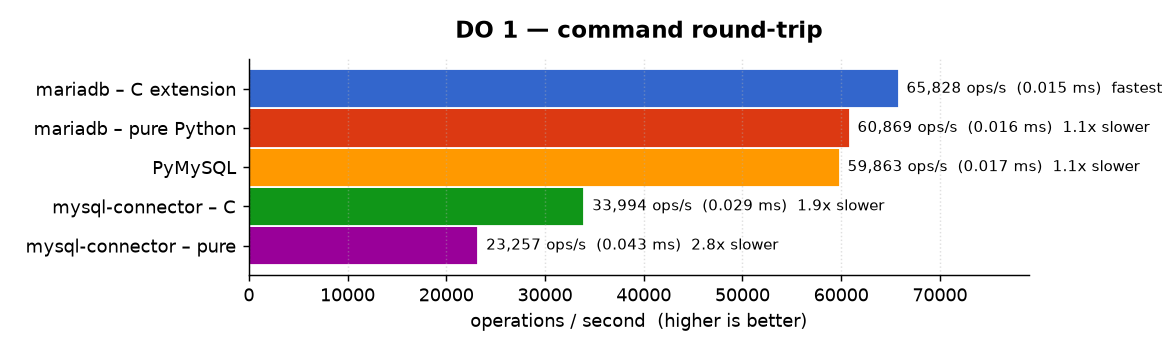
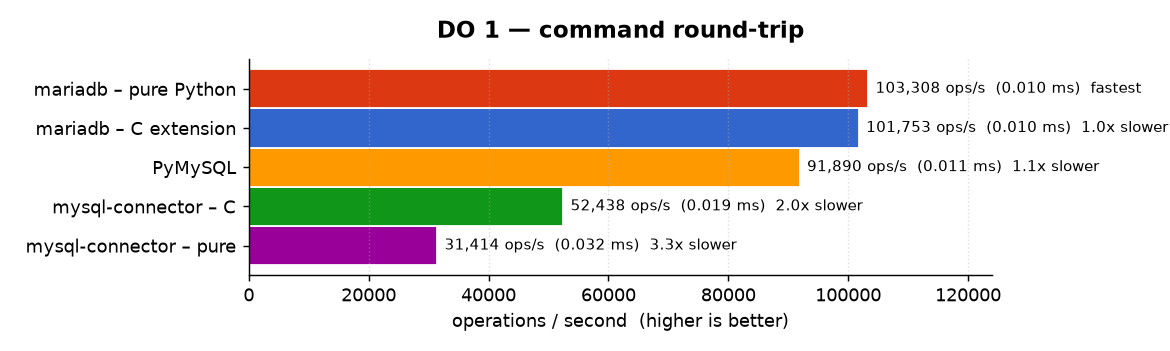
[misc] refresh benchmark results

diff --git a/docs/benchmarks.md b/docs/benchmarks.md
@@ -12,28 +12,32 @@ with the commands under [Reproducing](#reproducing).
 
 ## TL;DR
 
-The `mariadb` **C extension is the fastest driver in every benchmark**, and the
-pure-Python `mariadb` implementation comes second in most of them. Selected
+The `mariadb` **C extension is the fastest driver in almost every benchmark**;
+the only exceptions are the bare `DO` round-trips (no result set to parse),
+where the pure-Python driver matches it. The pure-Python `mariadb`
+implementation is the **fastest pure-Python driver in every benchmark**, and on
+result-set parsing it now **matches or beats MySQL Connector/Python's C
+extension** — e.g. `SELECT 100 columns` (7,435 vs 7,303 ops/s, text). Selected
 results (operations per second, higher is better):
 
 | Workload | mariadb (C) | vs pure-Python `mariadb` | vs MySQL Connector/C |
 |---|---|---|---|
-| `SELECT 1` (simple query) | **50,155 ops/s** | 1.6× faster | 2.1× faster |
-| `SELECT 1000 rows` (binary) | **5,672 ops/s** | 8.0× faster | 4.4× faster |
-| `SELECT 100 columns` (binary) | **19,782 ops/s** | 1.5× faster | 4.8× faster |
-| `DO 1000 params` (binary) | **4,268 ops/s** | 2.2× faster | 58× faster |
-| Batch `INSERT` (100 rows) | **6,110 ops/s** | 1.3× faster | 3.0× faster |
+| `SELECT 1` (simple query) | **85,508 ops/s** | 1.6× faster | 2.4× faster |
+| `SELECT 1000 rows` (binary) | **6,259 ops/s** | 7.7× faster | 4.2× faster |
+| `SELECT 100 columns` (binary) | **13,624 ops/s** | 2.2× faster | 2.5× faster |
+| `DO 1000 params` (binary) | **2,721 ops/s** | 2.0× faster | 36× faster |
+| Batch `INSERT` (100 rows) | **8,454 ops/s** | 1.6× faster | 3.6× faster |
 
 ## Environment
 
 |  |  |
 |---|---|
 | CPU | Intel Core i9-11900K, governor `performance` (~4.8 GHz), client pinned to one core (`taskset -c 4`) |
-| OS / Python | Linux · CPython 3.12.3 |
-| Server | MariaDB 12.3.2 · TCP · TLS off |
-| Tooling | [pytest-benchmark](https://pypi.org/project/pytest-benchmark/) · ≥ 1000 rounds per benchmark · GC disabled |
-| Method | two full passes; the **second** (warmed-up) pass is reported (mean per-call time → ops/s) |
-| Date | 2026-06-18 |
+| OS / Python | Linux · CPython 3.14.4 |
+| Server | MariaDB 12.3.2 · Unix socket · TLS off |
+| Tooling | [pytest-benchmark](https://pypi.org/project/pytest-benchmark/) · ≥ 1000 rounds per benchmark (capped at ~1 s wall-time for the slowest drivers) · GC disabled |
+| Method | 2 warm-up passes (discarded) then 3 reported passes; the **median** per-call time across the 3 is reported (→ ops/s) |
+| Date | 2026-07-20 |
 
 > ⚠ Sub-millisecond micro-benchmarks are sensitive to machine state (CPU
 > frequency scaling, background load, caches). These figures are meant for
@@ -45,16 +49,16 @@ results (operations per second, higher is better):
 
 | Benchmark | mariadb – C extension | mariadb – pure Python | PyMySQL | mysql-connector – C | mysql-connector – pure |
 |---|---|---|---|---|---|
-| DO 1 — command round-trip | 65,828 ops/s **(fastest)** | 60,869 ops/s (1.1x) | 59,863 ops/s (1.1x) | 33,994 ops/s (1.9x) | 23,257 ops/s (2.8x) |
-| SELECT 1 — simple query | 50,155 ops/s **(fastest)** | 31,623 ops/s (1.6x) | 30,522 ops/s (1.6x) | 23,906 ops/s (2.1x) | 14,770 ops/s (3.4x) |
-| INSERT — mixed types (single row) | 22,398 ops/s **(fastest)** | 20,125 ops/s (1.1x) | 19,846 ops/s (1.1x) | 21,392 ops/s (1.0x) | 14,755 ops/s (1.5x) |
-| Batch INSERT — 100 rows (executemany) | 6,110 ops/s **(fastest)** | 4,786 ops/s (1.3x) | 1,880 ops/s (3.3x) | 2,050 ops/s (3.0x) | 1,626 ops/s (3.8x) |
-| SELECT 1000 rows — binary protocol | 5,672 ops/s **(fastest)** | 713 ops/s (8.0x) | – | 1,289 ops/s (4.4x) | 22 ops/s (255.7x) |
-| SELECT 1000 rows — text protocol | 5,220 ops/s **(fastest)** | 854 ops/s (6.1x) | 444 ops/s (11.8x) | 1,429 ops/s (3.7x) | 298 ops/s (17.5x) |
-| SELECT 100 columns — binary protocol | 19,782 ops/s **(fastest)** | 13,489 ops/s (1.5x) | – | 4,139 ops/s (4.8x) | 24 ops/s (832.1x) |
-| SELECT 100 columns — text protocol | 13,910 ops/s **(fastest)** | 5,290 ops/s (2.6x) | 2,120 ops/s (6.6x) | 5,568 ops/s (2.5x) | 2,088 ops/s (6.7x) |
-| DO 1000 params — binary protocol | 4,268 ops/s **(fastest)** | 1,977 ops/s (2.2x) | – | 74 ops/s (58.0x) | 17 ops/s (246.5x) |
-| DO 1000 params — text protocol | 3,560 ops/s **(fastest)** | 3,415 ops/s (1.0x) | 1,748 ops/s (2.0x) | 2,485 ops/s (1.4x) | 860 ops/s (4.1x) |
+| DO 1 — command round-trip | 101,753 ops/s (1.0x) | 103,308 ops/s **(fastest)** | 91,890 ops/s (1.1x) | 52,438 ops/s (2.0x) | 31,414 ops/s (3.3x) |
+| SELECT 1 — simple query | 85,508 ops/s **(fastest)** | 52,596 ops/s (1.6x) | 43,679 ops/s (2.0x) | 34,932 ops/s (2.4x) | 18,266 ops/s (4.7x) |
+| INSERT — mixed types (single row) | 34,305 ops/s **(fastest)** | 30,269 ops/s (1.1x) | 26,165 ops/s (1.3x) | 30,360 ops/s (1.1x) | 17,693 ops/s (1.9x) |
+| Batch INSERT — 100 rows (executemany) | 8,454 ops/s **(fastest)** | 5,394 ops/s (1.6x) | 2,141 ops/s (3.9x) | 2,370 ops/s (3.6x) | 1,885 ops/s (4.5x) |
+| SELECT 1000 rows — binary protocol | 6,259 ops/s **(fastest)** | 818 ops/s (7.7x) | – | 1,490 ops/s (4.2x) | 287 ops/s (21.8x) |
+| SELECT 1000 rows — text protocol | 6,781 ops/s **(fastest)** | 1,049 ops/s (6.5x) | 541 ops/s (12.5x) | 1,633 ops/s (4.2x) | 355 ops/s (19.1x) |
+| SELECT 100 columns — binary protocol | 13,624 ops/s **(fastest)** | 6,170 ops/s (2.2x) | – | 5,511 ops/s (2.5x) | 1,230 ops/s (11.1x) |
+| SELECT 100 columns — text protocol | 18,113 ops/s **(fastest)** | 7,435 ops/s (2.4x) | 2,543 ops/s (7.1x) | 7,303 ops/s (2.5x) | 2,362 ops/s (7.7x) |
+| DO 1000 params — binary protocol | 2,721 ops/s **(fastest)** | 1,394 ops/s (2.0x) | – | 76 ops/s (35.8x) | 59 ops/s (46.2x) |
+| DO 1000 params — text protocol | 4,082 ops/s **(fastest)** | 4,066 ops/s (1.0x) | 2,187 ops/s (1.9x) | 2,870 ops/s (1.4x) | 1,100 ops/s (3.7x) |
 
 *(Multiplier in parentheses is how much slower than the fastest driver for that row.)*
 
@@ -96,12 +100,17 @@ python run_all_benchmarks.py                    # all drivers -> results_<timest
 ```
 
 For the stable numbers shown above, pin the CPU to maximum frequency, pin the
-client to one core, and take the **second** of two runs:
+client to one core, warm the machine with a couple of discarded passes, then
+report the **median** of several passes (which filters out any unlucky pass):
 
 ```bash
 sudo cpupower frequency-set -g performance      # restore later: -g powersave
 taskset -c 4 python run_all_benchmarks.py        # warm-up (discarded)
-taskset -c 4 python run_all_benchmarks.py        # reported run
+taskset -c 4 python run_all_benchmarks.py        # warm-up (discarded)
+for i in 1 2 3; do                               # reported passes
+  taskset -c 4 python run_all_benchmarks.py
+done
+# take the per-benchmark median across the 3 reported results_* dirs
 ```
 
 Regenerate the charts and the table on this page from a results directory

diff --git a/docs/benchmarks/comparison_table.md b/docs/benchmarks/comparison_table.md
@@ -1,12 +1,12 @@
 | Benchmark | mariadb – C extension | mariadb – pure Python | PyMySQL | mysql-connector – C | mysql-connector – pure |
 |---|---|---|---|---|---|
-| DO 1 — command round-trip | 65,828 ops/s **(fastest)** | 60,869 ops/s (1.1x) | 59,863 ops/s (1.1x) | 33,994 ops/s (1.9x) | 23,257 ops/s (2.8x) |
-| SELECT 1 — simple query | 50,155 ops/s **(fastest)** | 31,623 ops/s (1.6x) | 30,522 ops/s (1.6x) | 23,906 ops/s (2.1x) | 14,770 ops/s (3.4x) |
-| INSERT — mixed types (single row) | 22,398 ops/s **(fastest)** | 20,125 ops/s (1.1x) | 19,846 ops/s (1.1x) | 21,392 ops/s (1.0x) | 14,755 ops/s (1.5x) |
-| Batch INSERT — 100 rows (executemany) | 6,110 ops/s **(fastest)** | 4,786 ops/s (1.3x) | 1,880 ops/s (3.3x) | 2,050 ops/s (3.0x) | 1,626 ops/s (3.8x) |
-| SELECT 1000 rows — binary protocol | 5,672 ops/s **(fastest)** | 713 ops/s (8.0x) | – | 1,289 ops/s (4.4x) | 22 ops/s (255.7x) |
-| SELECT 1000 rows — text protocol | 5,220 ops/s **(fastest)** | 854 ops/s (6.1x) | 444 ops/s (11.8x) | 1,429 ops/s (3.7x) | 298 ops/s (17.5x) |
-| SELECT 100 columns — binary protocol | 19,782 ops/s **(fastest)** | 13,489 ops/s (1.5x) | – | 4,139 ops/s (4.8x) | 24 ops/s (832.1x) |
-| SELECT 100 columns — text protocol | 13,910 ops/s **(fastest)** | 5,290 ops/s (2.6x) | 2,120 ops/s (6.6x) | 5,568 ops/s (2.5x) | 2,088 ops/s (6.7x) |
-| DO 1000 params — binary protocol | 4,268 ops/s **(fastest)** | 1,977 ops/s (2.2x) | – | 74 ops/s (58.0x) | 17 ops/s (246.5x) |
-| DO 1000 params — text protocol | 3,560 ops/s **(fastest)** | 3,415 ops/s (1.0x) | 1,748 ops/s (2.0x) | 2,485 ops/s (1.4x) | 860 ops/s (4.1x) |
+| DO 1 — command round-trip | 101,753 ops/s (1.0x) | 103,308 ops/s **(fastest)** | 91,890 ops/s (1.1x) | 52,438 ops/s (2.0x) | 31,414 ops/s (3.3x) |
+| SELECT 1 — simple query | 85,508 ops/s **(fastest)** | 52,596 ops/s (1.6x) | 43,679 ops/s (2.0x) | 34,932 ops/s (2.4x) | 18,266 ops/s (4.7x) |
+| INSERT — mixed types (single row) | 34,305 ops/s **(fastest)** | 30,269 ops/s (1.1x) | 26,165 ops/s (1.3x) | 30,360 ops/s (1.1x) | 17,693 ops/s (1.9x) |
+| Batch INSERT — 100 rows (executemany) | 8,454 ops/s **(fastest)** | 5,394 ops/s (1.6x) | 2,141 ops/s (3.9x) | 2,370 ops/s (3.6x) | 1,885 ops/s (4.5x) |
+| SELECT 1000 rows — binary protocol | 6,259 ops/s **(fastest)** | 818 ops/s (7.7x) | – | 1,490 ops/s (4.2x) | 287 ops/s (21.8x) |
+| SELECT 1000 rows — text protocol | 6,781 ops/s **(fastest)** | 1,049 ops/s (6.5x) | 541 ops/s (12.5x) | 1,633 ops/s (4.2x) | 355 ops/s (19.1x) |
+| SELECT 100 columns — binary protocol | 13,624 ops/s **(fastest)** | 6,170 ops/s (2.2x) | – | 5,511 ops/s (2.5x) | 1,230 ops/s (11.1x) |
+| SELECT 100 columns — text protocol | 18,113 ops/s **(fastest)** | 7,435 ops/s (2.4x) | 2,543 ops/s (7.1x) | 7,303 ops/s (2.5x) | 2,362 ops/s (7.7x) |
+| DO 1000 params — binary protocol | 2,721 ops/s **(fastest)** | 1,394 ops/s (2.0x) | – | 76 ops/s (35.8x) | 59 ops/s (46.2x) |
+| DO 1000 params — text protocol | 4,082 ops/s **(fastest)** | 4,066 ops/s (1.0x) | 2,187 ops/s (1.9x) | 2,870 ops/s (1.4x) | 1,100 ops/s (3.7x) |
